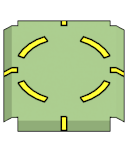
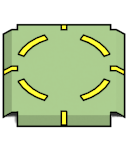
now w/o silly html selections, better building art, some better terrain art

diff --git a/index.html b/index.html
@@ -29,7 +29,7 @@
           <div class="row">
             <div class="span1">
               <h3>Terrains</h3>
-              <ul class="toolBar">
+              <ul class="toolBar unselectable">
                 <li class="tool" ng-class="{selectedTool: selectedTerrain=='none'}">
                   <a ng-click="selectTerrain('none');">
                     Delete
@@ -43,7 +43,7 @@
               </ul>
 
               <h3>Buildings</h3>
-              <ul class="toolBar">
+              <ul class="toolBar unselectable">
                 <li class="tool" ng-class="{selectedTool: selectedBuilding=='none'}">
                   <a ng-click="selectBuilding('none');" >
                     Delete
@@ -58,7 +58,7 @@
             </div>
             <div class="span1">
               <h3>Units</h3>
-              <ul class="toolBar">
+              <ul class="toolBar unselectable">
                 <li class="tool" ng-class="{selectedTool: selectedUnit=='none'}">
                   <a ng-click="selectUnit('none');" >
                     Delete
@@ -71,7 +71,7 @@
                 </li>
               </ul>
               <h3>Factions</h3>
-              <ul class="toolBar">
+              <ul class="toolBar unselectable">
                 <li class="tool" ng-class="{selectedTool: selectedFaction==0}">
                   <a ng-click="selectedFaction = 0;" >
                     Green
@@ -85,7 +85,7 @@
               </ul>
             </div>
             <div class="span10">
-              <div id="map">
+              <div id="map" class="unselectable">
                 <ul class="mapRows">
                   <li ng-repeat="row in map" class="mapRow">
                     <ul class="mapCells">

diff --git a/js/controllers.js b/js/controllers.js
@@ -15,7 +15,7 @@ function mapController($scope, angularFire) {
   $scope.terrains = {
     dessert:{
       id:'dessert',
-      art:[terrainAssetPath+"dessert_0.png", terrainAssetPath+"dessert_1.png"],
+      art:[terrainAssetPath+"dessert_0.png", terrainAssetPath+"dessert_1.png", terrainAssetPath+"dessert_2.png"],
       terrainVariant:0,
       label:'dessert'
     },
@@ -137,12 +137,7 @@ function mapController($scope, angularFire) {
           'y':y,
           'terrain':'none',
           'building':'none',
-          'buildingFaction':'neutral',
-          'terrainVariant':'0',
-          'buildingVariant':'0',
-          'unit':'none',
-          'unitOrientation':'right',
-          'unitFaction':0
+          'unit':'none'
         }
       }
     }

diff --git a/css/meta.less b/css/meta.less
@@ -107,3 +107,14 @@ h2, h3 {
   z-index:10;
   bottom:-8px;
 }
+
+
+
+.unselectable {
+  -webkit-touch-callout: none;
+  -webkit-user-select: none;
+  -khtml-user-select: none;
+  -moz-user-select: none;
+  -ms-user-select: none;
+  user-select: none;
+}
